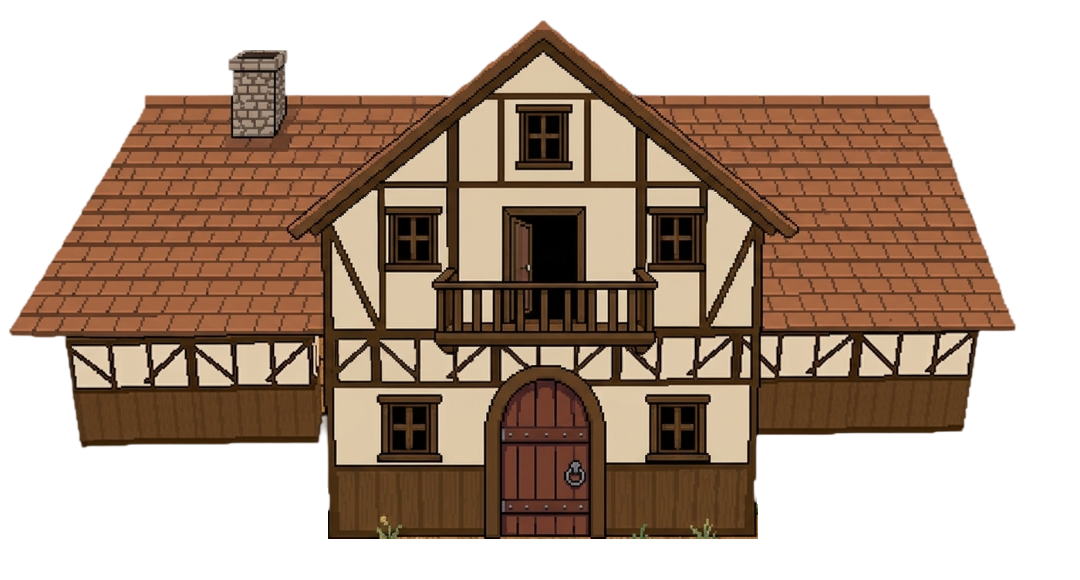
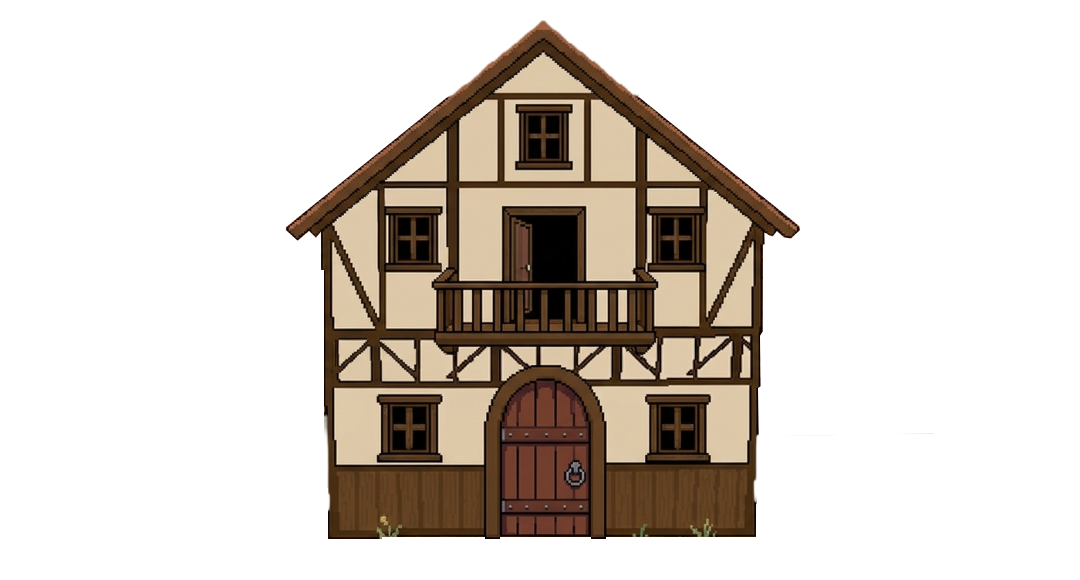
Update player house and front yard transition metadata for improved collision handling

diff --git a/src/Map.cpp b/src/Map.cpp
@@ -226,13 +226,13 @@ static const std::unordered_map<std::string, MapMeta>& getMapMeta() {
     static const std::unordered_map<std::string, MapMeta> meta = {
         {"player_house", {
             14, 11, 0, 0,
-            {{4, 11, 2, 3, "front_yard", 12, 4}},
+            {{4, 11, 2, 1, "front_yard", 12, 4}},
             std::vector<uint8_t>(14 * 11, 0),
             4, 4, true, false, {},
         }},
         {"front_yard", {
             27, 20, 0, 13,
-            {{10, 0, 5, 1, "player_house", 5, 8}},
+            {{10, -1, 5, 1, "player_house", 5, 8}},
             std::vector<uint8_t>(27 * 20, 0),
             14, 10, false, true,
             {{3,3},{3,16},{7,3},{7,16},{11,3},{15,3},{19,3},{23,3},
@@ -603,10 +603,29 @@ void Map::buildWalls() {
 void Map::buildBoundaryFence() {
     float hw = m_width * m_tileSize * 0.5f;
     float hh = m_height * m_tileSize * 0.5f;
-    // Thin (8-unit) invisible collision rects right at the floor edge
     const float t = 8.0f;
-    m_collisionRects.push_back({0.0f, 0.0f, 2 * hw, t}); // north
-    m_collisionRects.push_back({0.0f, 2 * hh - t, 2 * hw, t}); // south
+    // North fence with door gaps
+    {
+        float cur = 0.0f;
+        for (auto& dg : m_doorGaps) {
+            if (dg.side != 0) continue;
+            float g0 = dg.gapMin + hw, g1 = dg.gapMax + hw;
+            if (cur < g0) m_collisionRects.push_back({cur, 0.0f, g0 - cur, t});
+            cur = g1;
+        }
+        if (cur < 2 * hw) m_collisionRects.push_back({cur, 0.0f, 2 * hw - cur, t});
+    }
+    // South fence with door gaps
+    {
+        float cur = 0.0f;
+        for (auto& dg : m_doorGaps) {
+            if (dg.side != 1) continue;
+            float g0 = dg.gapMin + hw, g1 = dg.gapMax + hw;
+            if (cur < g0) m_collisionRects.push_back({cur, 2 * hh - t, g0 - cur, t});
+            cur = g1;
+        }
+        if (cur < 2 * hw) m_collisionRects.push_back({cur, 2 * hh - t, 2 * hw - cur, t});
+    }
     m_collisionRects.push_back({0.0f, 0.0f, t, 2 * hh}); // west
     m_collisionRects.push_back({2 * hw - t, 0.0f, t, 2 * hh}); // east
 }
